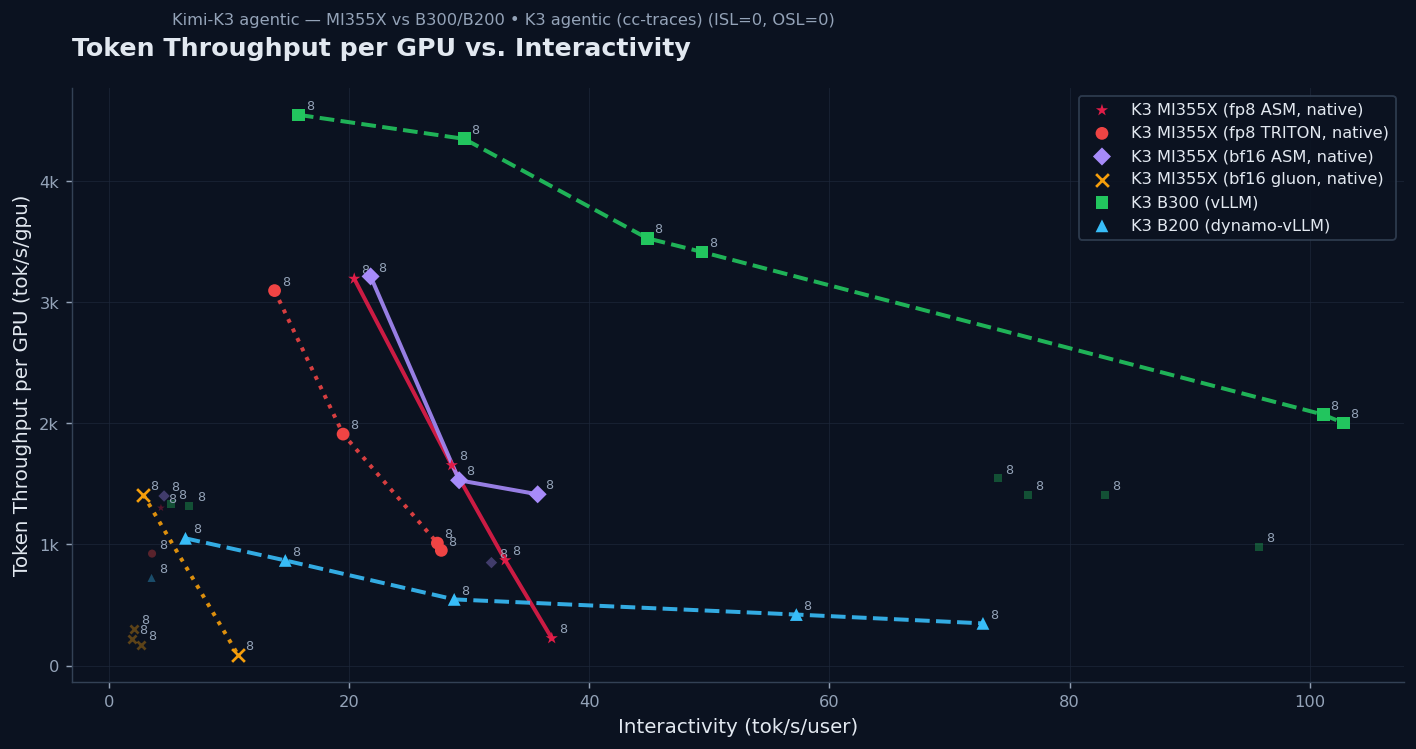
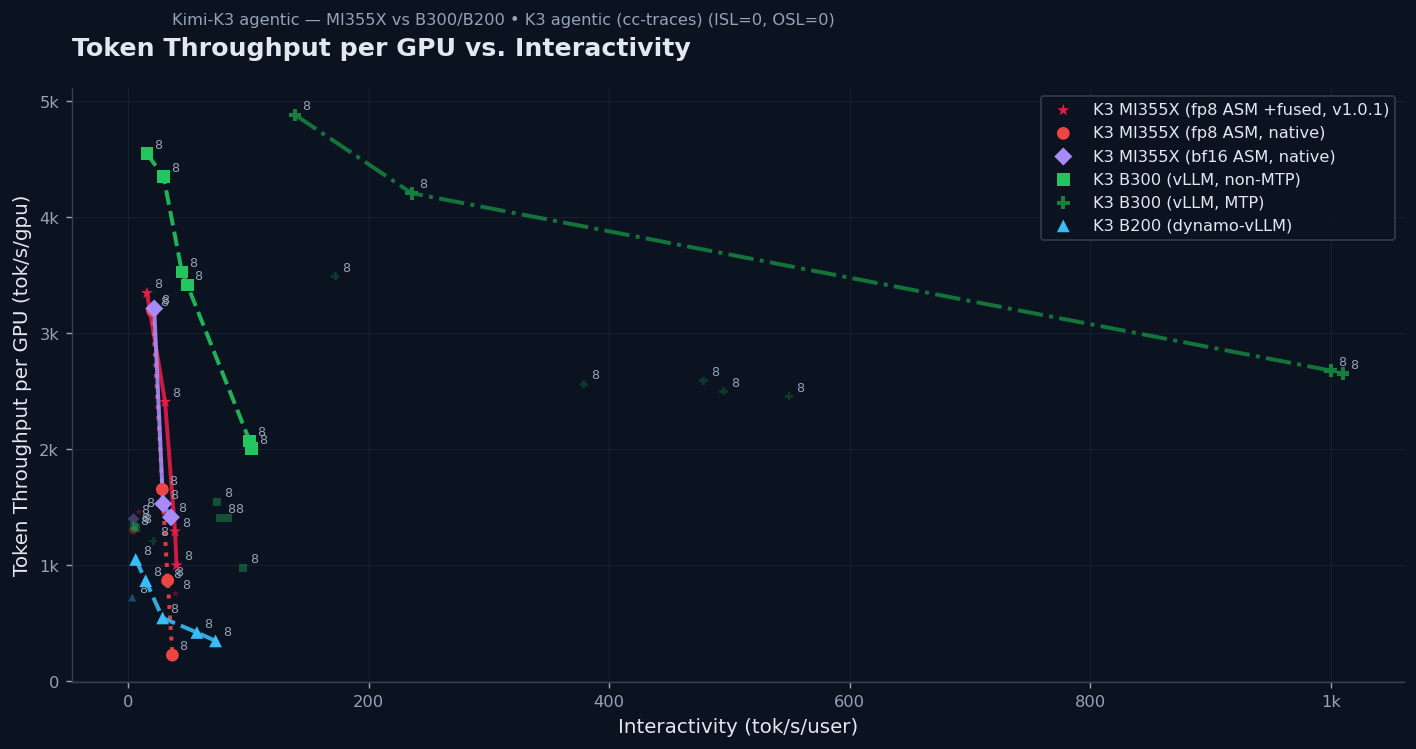
[bench] prefixbench fused-ON results + refreshed agentic pareto
- kimik3_prefixbench_fp8asm.md: fill fused-ON row (conc16 4963 +4.3%, conc24 6479
  +4.8%; ITL -4.9%/-9.4%; conc24 TTFT +10.1%). Single cold run vs separate-serve
  baseline → within cold-run noise, consistent with fused being perf-neutral.
- pareto_combined_K3 agentic (cc-traces).png: regenerated from the 1-24 sweep
  (fp8 ASM +fused v1.0.1) vs B300 non-MTP/MTP + B200.

diff --git a/docs/kimik3_prefixbench_fp8asm.md b/docs/kimik3_prefixbench_fp8asm.md
@@ -63,11 +63,17 @@ held identical (moe aiter, ms24, default mnbt, gpu 0.95). Run via
 
 | run | conc16 in/GPU | conc16 TTFT / ITL | conc24 in/GPU | conc24 TTFT / ITL |
 |---|--:|--|--:|--|
-| `k3_prefixbench_fp8asm_v101_fused` | _pending_ | _pending_ | _pending_ | _pending_ |
+| `k3_prefixbench_fp8asm_v101_fused` | 4963 (**+4.3%**) | 7111 ms / 57.8 ms | 6479 (**+4.8%**) | 9147 ms / 63.8 ms |
 
-> Chained behind the 1–24 agentic sweep (waits for GPU-free, then runs). Fill this
-> row from `k3_prefixbench_fp8asm_v101_fused/concurrency_*/phases/profiling/profile_export_aiperf.json`
-> once complete; compute Δ% vs the `_gm095` baseline (cold-vs-cold).
+Δ vs the `_gm095` fused-OFF baseline (cold-vs-cold): in-tok/s/GPU **+4.3% / +4.8%**,
+ITL **−4.9% / −9.4%**, TTFT −1.6% / **+10.1%** (conc24 TTFT regressed).
+
+> ⚠ Single cold run (aiperf: `num_successful=1, std=0, no CI`) against a baseline
+> from a *separate* earlier serve — cache/thermal state differs. The prefixbench
+> swings ~2× cold↔warm, so this +4–5% sits inside the cold-run noise band and is
+> **consistent with fused being perf-neutral** (the clean same-serve A/B finding).
+> For a real verdict, run a same-serve back-to-back fused-on/off A/B or warm-primed
+> multi-run (2026-08-05).
 
 ## Reproduce
 
